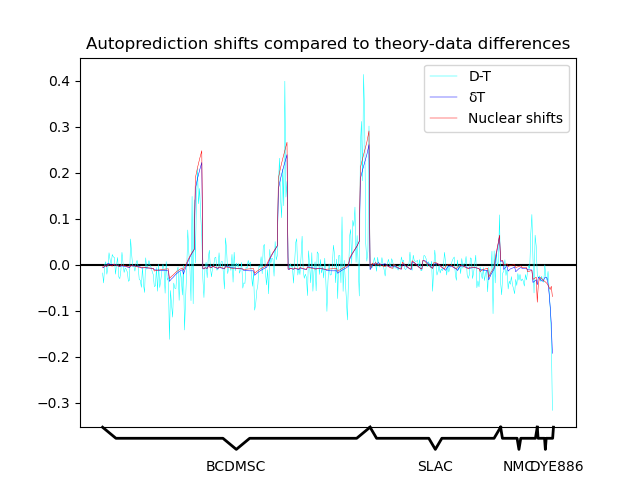
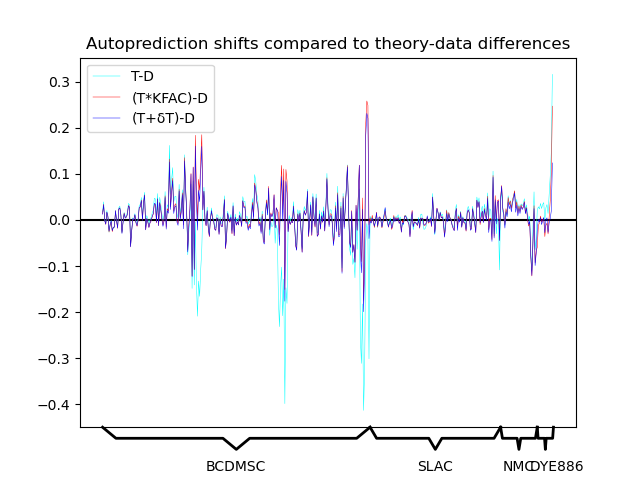
fixed sign problems

diff --git a/output.py b/output.py
@@ -228,21 +228,21 @@ plt.clf()
 #endregion
 
 #region autoprediction shifts
-AUTO_norm = np.zeros_like(AUTO)
-for i in range(len(AUTO)):
-    AUTO_norm[i] = AUTO[i] / T[i]
+AUTO_norm = np.zeros_like(T-D+AUTO)
+for i in range(len(T-D+AUTO)):
+    AUTO_norm[i] = (T-D+AUTO)[i] / T[i]
 TD_norm = np.zeros_like(T-D)
 for i in range(len(TD_norm)):
     TD_norm[i] = (T-D)[i] / T[i]
-TK_norm = np.zeros_like(T-T_KFAC)
+TK_norm = np.zeros_like(T_KFAC-T - D)
 for i in range(len(TK_norm)):
-    TK_norm[i] = (T-T_KFAC)[i] / T[i]
+    TK_norm[i] = (T_KFAC - D)[i] / T[i]
 
-x = np.arange(len(AUTO))
+x = np.arange(len(T-D+AUTO))
 #plt.ylim(-1.4,1.4)
-plt.plot(x, -TD_norm, c='cyan', label='D-T', linewidth=0.35, zorder=2)
-plt.plot(x, AUTO_norm, c='b', label='δT', linewidth=0.35, zorder=2)
-plt.plot(x, -TK_norm, c='r', label='Nuclear shifts', linewidth=0.35, zorder=2)
+plt.plot(x, TD_norm, c='cyan', label='T-D', linewidth=0.35, zorder=2)
+plt.plot(x, TK_norm, c='r', label='(T*KFAC)-D', linewidth=0.35, zorder=2)
+plt.plot(x, AUTO_norm, c='b', label='(T+δT)-D', linewidth=0.35, zorder=2)
 plt.title("Autoprediction shifts compared to theory-data differences")
 show_dataset_brackets(plt.gca())
 plt.axhline(y=0, color='k', linestyle='-', zorder=1)
